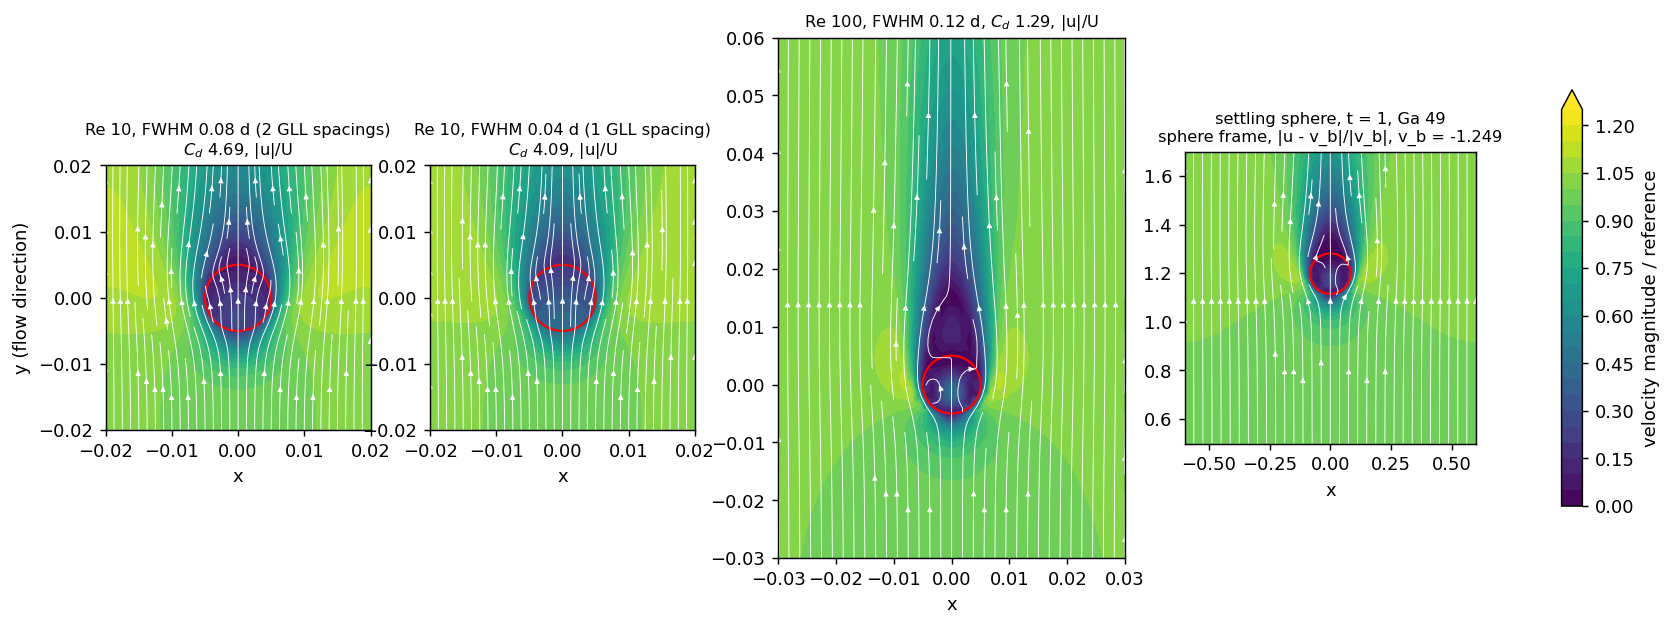
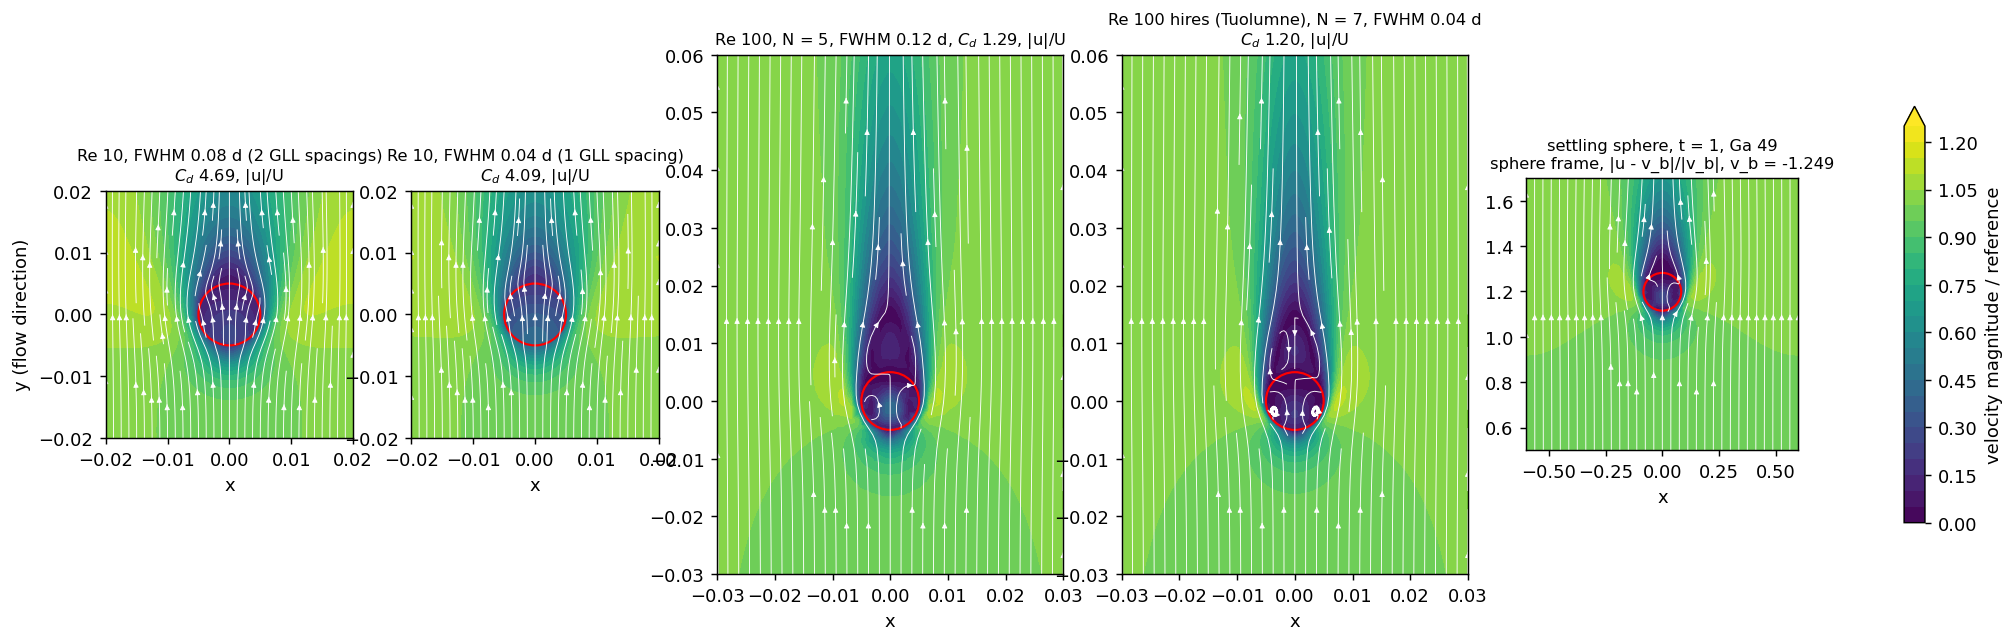
Re 100 on NekIBM's mesh (Tuolumne, 8 GPUs): Cd 1.20, eddy 0.95 d; hires inputs for the reference figures

diff --git a/scripts/plot_slices.py b/scripts/plot_slices.py
@@ -2,7 +2,7 @@
 """Midplane (z = 0) contours of the IBM reference cases from plane_z0.csv.
 
     python3 scripts/plot_slices.py --re10 cases/ibm_fixed_sphere --re10-fine cases/ibm_fixed_sphere_fine
-        --re100 cases/ibm_sphere_re100 --settle cases/ibm_settling_sphere --settle-log build/c_settle.log
+        --re100 cases/ibm_sphere_re100 [--re100-hires build/tuo] --settle cases/ibm_settling_sphere --settle-log build/c_settle.log
         [--out docs/img/ibm_slices.png]
 
 Each panel: velocity magnitude on the GLL points of the z = 0 plane (tricontourf),
@@ -53,6 +53,7 @@ def main():
     ap.add_argument("--re10", required=True)
     ap.add_argument("--re10-fine")
     ap.add_argument("--re100", required=True)
+    ap.add_argument("--re100-hires", help="dir with the Tuolumne plane_z0.csv of ibm_sphere_re100/hires")
     ap.add_argument("--settle", required=True)
     ap.add_argument("--settle-log", required=True)
     ap.add_argument("--out", default="ibm_slices.png")
@@ -69,16 +70,20 @@ def main():
         if m:
             yb, vb = float(m.group(1)), float(m.group(2))
 
-    fig, axs = plt.subplots(1, 4, figsize=(17, 5.2), gridspec_kw={"width_ratios": [1, 1, 1.4, 1.1]})
+    widths = [1, 1, 1.4] + ([1.4] if a.re100_hires else []) + [1.1]
+    fig, axs = plt.subplots(1, len(widths), figsize=(4 * len(widths) + 1, 5.2), gridspec_kw={"width_ratios": widths})
     cf = panel(axs[0], load(a.re10), 0, 0, 0.005, "Re 10, FWHM 0.08 d (2 GLL spacings)\n$C_d$ 4.69, |u|/U")
     if a.re10_fine:
         panel(axs[1], load(a.re10_fine), 0, 0, 0.005, "Re 10, FWHM 0.04 d (1 GLL spacing)\n$C_d$ 4.09, |u|/U")
-    panel(axs[2], load(a.re100), 0, 0, 0.005, "Re 100, FWHM 0.12 d, $C_d$ 1.29, |u|/U", zoom=(-0.03, 0.03, -0.03, 0.06))
+    panel(axs[2], load(a.re100), 0, 0, 0.005, "Re 100, N = 5, FWHM 0.12 d, $C_d$ 1.29, |u|/U", zoom=(-0.03, 0.03, -0.03, 0.06))
+    if a.re100_hires:
+        panel(axs[3], load(a.re100_hires), 0, 0, 0.005, "Re 100 hires (Tuolumne), N = 7, FWHM 0.04 d\n$C_d$ 1.20, |u|/U",
+              zoom=(-0.03, 0.03, -0.03, 0.06))
     d = load(a.settle)
     # frame moving with the sphere: subtract the body velocity so the wake shows
     d = dict(d)
     d["v"] = d["v"] - vb
-    panel(axs[3], d, 0, yb, 1 / 12, f"settling sphere, t = 1, Ga 49\nsphere frame, |u - v_b|/|v_b|, v_b = {vb:.3f}",
+    panel(axs[-1], d, 0, yb, 1 / 12, f"settling sphere, t = 1, Ga 49\nsphere frame, |u - v_b|/|v_b|, v_b = {vb:.3f}",
           zoom=(-0.6, 0.6, yb - 0.7, yb + 0.5), uref=abs(vb))
     for ax in axs:
         ax.set_xlabel("x")

diff --git a/scripts/settling_reference.py b/scripts/settling_reference.py
@@ -51,7 +51,9 @@ def main():
     ap = argparse.ArgumentParser()
     ap.add_argument("--settle", required=True)
     ap.add_argument("--settle-fine")
+    ap.add_argument("--settle-hires", help="Tuolumne run of cases/ibm_settling_sphere/hires")
     ap.add_argument("--re100", required=True)
+    ap.add_argument("--re100-hires", help="Tuolumne run of cases/ibm_sphere_re100/hires")
     ap.add_argument("--re10", required=True)
     ap.add_argument("--re10-fine")
     ap.add_argument("--out", default="nekibm_refs.png")
@@ -65,7 +67,8 @@ def main():
     fig, axs = plt.subplots(1, 3, figsize=(16, 4.4))
 
     ax = axs[0]
-    for path, lab, st in ((a.settle, "N = 7, FWHM 0.12 d", "C0-"), (a.settle_fine, "N = 8, FWHM 0.10 d", "C1-")):
+    for path, lab, st in ((a.settle, "N = 7, FWHM 0.12 d", "C0-"), (a.settle_fine, "N = 8, FWHM 0.10 d", "C1-"),
+                          (a.settle_hires, "hires: 60 d column, markers d/20, FWHM 0.10 d", "C2-")):
         if not path:
             continue
         S = parse(path, SETTLE)
@@ -83,9 +86,14 @@ def main():
     ax.grid(alpha=0.3)
 
     ax = axs[1]
-    C = parse(a.re100, CD)
-    print(f"Re 100: Cd {C[-1, 1]:.4f} at U t / d = {C[-1, 0] / 0.01:.1f}, slip {C[-1, 2]:.3f}; Johnson & Patel 1.09, ratio {C[-1, 1] / 1.09:.3f}")
-    ax.plot(C[:, 0] / 0.01, C[:, 1], "C0-", label="this repo's IBM, N = 5, FWHM 0.12 d (NekIBM fixsphere/Re100 box)")
+    for path, lab, st in ((a.re100, "N = 5, FWHM 0.12 d, 16 x 30 x 16 (NekIBM fixsphere/Re100 box)", "C0-"),
+                          (a.re100_hires, "hires: N = 7, FWHM 0.04 d, 32 x 60 x 32 (NekIBM's mesh)", "C2-")):
+        if not path:
+            continue
+        C = parse(path, CD)
+        print(f"Re 100 {lab}: Cd {C[-1, 1]:.4f} at U t / d = {C[-1, 0] / 0.01:.1f}, slip {C[-1, 2]:.3f}; "
+              f"Johnson & Patel 1.09, ratio {C[-1, 1] / 1.09:.3f}")
+        ax.plot(C[:, 0] / 0.01, C[:, 1], st, label=f"this repo's IBM, {lab}")
     ax.axhline(1.09, color="k", ls="--", lw=0.9, label="Johnson & Patel (1999): 1.09")
     ax.set_ylim(0.8, 2.0)
     ax.set_xlabel("U t / d")

diff --git a/docs/design.md b/docs/design.md
@@ -563,16 +563,19 @@ with the wake behind it.
 | case | NekIBM input | reference | this repo | notes |
 |---|---|---|---|---|
 | settling glass sphere, Ga 49.1, rho_p/rho_f 2.56 | `Set1sphere` (nu 0.005416, d 1/6, g 9.81, 1.2 x 1.2 cross-section periodic) | Mordant & Pinton: Re_t = 41, u_t = 1.332 | u = 1.249 at t = 1 (N = 7, FWHM 0.12 d), 1.244 (N = 8, FWHM 0.10 d); Re 38.4, force at 98 % of the net weight | 6 % slow; filter-insensitive (0.4 %); the 7.2 d lateral period hinders settling by up to 14 % in the Stokes limit (Hasimoto, phi^(1/3) = 0.083), less at Re 41; standard-drag ODE gives 1.427 (Re 44), 7 % above the measurement |
-| fixed sphere, Re 100 | `fixsphere/Re100` box (8d x 15d x 8d, inflow/outflow in y, periodic x, z) | Johnson & Patel: C_d = 1.09 | C_d = 1.286 at U t/d = 10 (N = 5, FWHM 0.12 d, 16 x 30 x 16 elements; NekIBM: 32 x 60 x 32, N = 7) | +18 %: diffuse-interface drag, see Re 10 |
+| fixed sphere, Re 100 | `fixsphere/Re100` box (8d x 15d x 8d, inflow/outflow in y, periodic x, z) | Johnson & Patel: C_d = 1.09, standing eddy 0.87 d | C_d = 1.286 at U t/d = 10 (N = 5, FWHM 0.12 d, 16 x 30 x 16 elements, laptop), eddy 1.00 d; C_d = 1.201, eddy 0.95 d on NekIBM's mesh (`hires`: 32 x 60 x 32, N = 7, FWHM 0.04 d, Tuolumne, 8 MI300A) | +18 % → +10 % with the sharper interface (marker slip 3.9 % → 2.8 %); C_d still falling by 0.002 per d/U at U t/d = 10, so part of the rest is the developing wake |
 | fixed sphere, Re 10 | `simple` box (4d)^3 | standard drag 4.15–4.3 | C_d = 4.69 with FWHM 0.08 d (two GLL spacings, marker slip 18 %), 4.09 with FWHM 0.04 d (one spacing, slip 31 %) | the two widths bracket the reference: a wide Gaussian enlarges the body, a one-cell one under-enforces no-slip; converging needs a finer grid, not a narrower filter |
 
 What this shows: with NekIBM's own set-ups the IBM reproduces the reference
-drag and settling velocity to 6–18 %, with the sign and size expected from
-the Gaussian interface width at d/10 resolution (fixed spheres) and from the
-periodic-array hindrance of NekIBM's narrow column (settling). NekIBM's
-published runs use half the marker spacing (`n_dh` = 20) on a mesh 4–30x
-larger, which is what a quantitative match needs; the inputs here are set up
-for that on a cluster. The paper's numbers were not available, so the
+drag and settling velocity to 6–18 % on the laptop grids, with the sign and
+size expected from the Gaussian interface width at d/10 resolution (fixed
+spheres) and from the periodic-array hindrance of NekIBM's narrow column
+(settling). On NekIBM's own Re 100 mesh (section 6, Tuolumne) the drag
+error halves to +10 % and the standing eddy shortens from 1.00 d to 0.95 d
+(reference 0.87 d), i.e. the interface width is the leading error and the
+scheme converges towards the reference as it is refined; the remaining
+offset at U t/d = 10 includes a still-developing wake (Johnson & Patel's
+value is the steady state). The paper's numbers were not available, so the
 comparison is to the experiments and correlations NekIBM itself used.
 
 Practical findings on the way: nekRS's mesh repair (`xyz repair`) diverges
@@ -598,16 +601,23 @@ export NEKRS_HOME=/p/lustre5/<user>/nekrs-install
 cd external/nekRS && CC=cc CXX=CC FC=ftn ./build.sh -DCMAKE_INSTALL_PREFIX=$NEKRS_HOME \
   -DENABLE_HYPRE_GPU=off -DENABLE_ADIOS=off -DOCCA_ENABLE_CUDA=off -DOCCA_ENABLE_DPCPP=off  # ADIOS links the python module's old libzmq
 # cases (ppiclF with the Cray wrappers, one rank per GPU)
-export FC=ftn CC=cc LAUNCHER="flux run --gpus-per-task=1 -n"
+export FC=ftn CC=cc LAUNCHER="flux run -g 1 -n"   # this flux takes -g, not --gpus-per-task
 flux alloc -q pdebug -N 1 -B <bank> -t 60m
 scripts/run_case.sh cases/ibm_fixed_sphere sphere 4 --backend HIP --device-id 0  # flux shows one GPU per task
+# batch (from the repo root; flux copies the script to /var/tmp, so it finds the repo through $PWD)
+flux batch -q pbatch -N 1 -B <bank> -t 3h -n 4 -g 1 --output=build/x.out scripts/tuolumne_batch.sh <case dir> <casename> 4
 ```
 
 Measured on one node (4 MI300A): `ibm_fixed_sphere` 0.27 s/step (11x the
-laptop), `ibm_sphere_re100/hires` 1.9 s/step (the host-staged ppiclF side
-dominates at 21M points); both hires cases therefore go through `pbatch` with
-`scripts/tuolumne_batch.sh` (ppiclF pre-built on a login node for the gslib
-download).
+laptop, C_d bit-identical to the laptop run), `ibm_sphere_re100/hires`
+1.9 s/step on 4 GPUs and 1.1 s/step on 8 (two nodes; the host-staged ppiclF
+side dominates at 21M points). `pbatch` carried a backlog of several
+thousand jobs, so the Re 100 hires run went through `pdebug` on two nodes
+(2000 steps in 41 min, `cases/ibm_sphere_re100/hires/tuolumne_8gpu.log`, the
+`sphere:` history plus every 50th step time); the settling hires case waits
+in `pbatch` via `scripts/tuolumne_batch.sh`. ppiclF is pre-built on a login
+node (gslib download) into `build/<case path with / as _>`; `| head` on a
+running job's output file closes the pipe and kills the job.
 
 NekIBM-resolution inputs for the section 5d comparison are in
 `cases/ibm_sphere_re100/hires` (32 x 60 x 32 elements, N = 7, 21M points,

diff --git a/README.md b/README.md
@@ -83,7 +83,7 @@ the shared model in `src/`, or the patches change, and always relinks the UDF.
 | `tab_breakup` | TAB deformation/breakup on single droplets at We 10–300 | oscillation period within 0.5 % of analytic; no breakup below We 12; breakup time on the Pilch & Erdman initiation curve (1.17 vs 1.21 at We 18) |
 | `jet_modarress` | Modarress (1984) round particle-laden jet, Re 13 300 — set up for a GPU node | coarse-mesh smoke test only (full mesh does not link on macOS arm64) |
 | `ibm_fixed_sphere` | NekIBM's `IBM_test/simple`: fixed sphere at Re 10 in a 4d periodic box, on this repo's IBM | C_d 4.69 vs 4.15–4.3 unbounded (the excess is the 4d-box blockage); lateral force 1e-10 |
-| `ibm_sphere_re100`, `ibm_settling_sphere` (+ `_fine`) | NekIBM's own reference cases on this IBM: fixed sphere Re 100 (Johnson & Patel 1.09) and the Mordant & Pinton settling glass sphere (Ga 49, Re_t 41) | C_d 1.29 (+18 %, diffuse interface at d/10); u_t 6 % slow (7.2 d periodic column), filter-insensitive; see design doc §5d |
+| `ibm_sphere_re100`, `ibm_settling_sphere` (+ `_fine`) | NekIBM's own reference cases on this IBM: fixed sphere Re 100 (Johnson & Patel 1.09) and the Mordant & Pinton settling glass sphere (Ga 49, Re_t 41) | C_d 1.29 (+18 %, diffuse interface at d/10) on the laptop grid, 1.20 (+10 %) on NekIBM's mesh (`hires`, Tuolumne, 8 MI300A); u_t 6 % slow (7.2 d periodic column), filter-insensitive; see design doc §5d, §6 |
 | `el_ibm_collision` | EL particles fired at a free IBM sphere | no particle enters the sphere, the sphere picks up the cloud's momentum (u 0 → 0.27), total momentum within 0.3 %, IBM slip ≈ 2 % of the body speed |
 
 ![Collision demo summary](docs/img/collision_summary.png)
@@ -98,7 +98,7 @@ Validation against the original codes (design doc §5): ppiclF before/after the 
 
 ![validation against the originals](docs/img/validation.png)
 
-NekIBM's own reference cases (Mordant & Pinton settling sphere, Johnson & Patel Re 100, filter-width bracket at Re 10) on this IBM, design doc §5d:
+NekIBM's own reference cases (Mordant & Pinton settling sphere, Johnson & Patel Re 100 on the laptop grid and on NekIBM's mesh on Tuolumne, filter-width bracket at Re 10) on this IBM, design doc §5d:
 
 ![NekIBM reference cases](docs/img/nekibm_refs.png)
 
